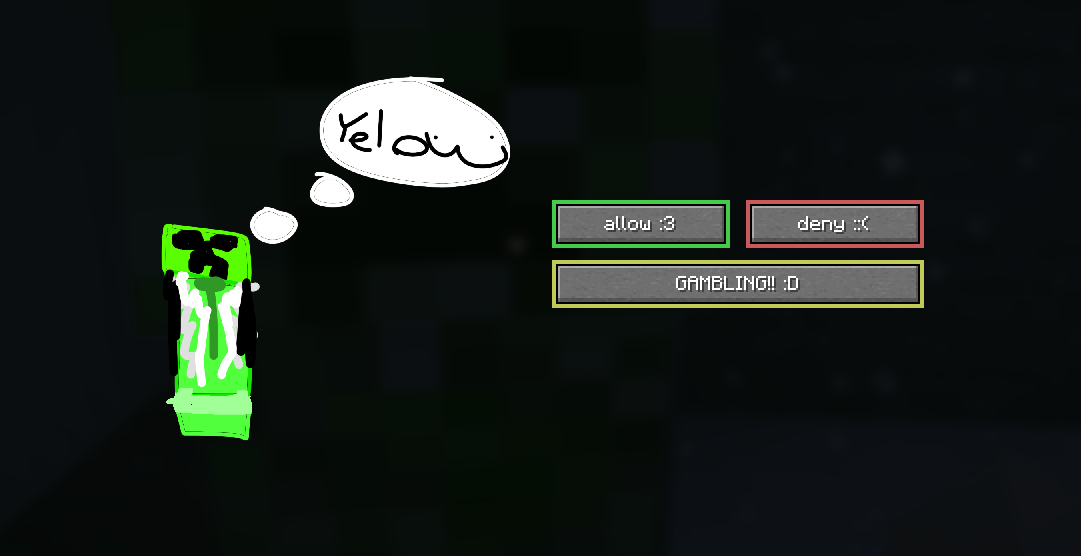
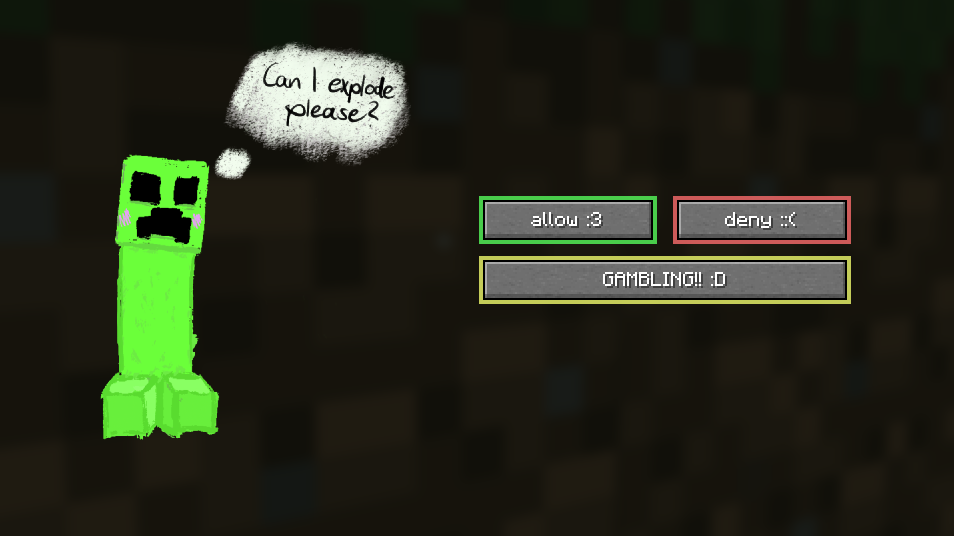
Update README, added +1 image

diff --git a/src/client/kotlin/wuritz/bcc/client/screens/ConsentScreen.kt b/src/client/kotlin/wuritz/bcc/client/screens/ConsentScreen.kt
@@ -9,13 +9,13 @@ import net.minecraft.client.gui.components.ImageWidget
 import net.minecraft.client.gui.components.Tooltip
 import net.minecraft.client.gui.screens.Screen
 import net.minecraft.network.chat.Component
-import wuritz.bcc.BetterCreeperConsent
+import wuritz.bcc.client.utils.ImageParser
 import wuritz.bcc.network.payloads.ResponsePayload
 import java.awt.Color
 
 class ConsentScreen(val creeperId: Int) : Screen(Component.literal("Consent")) {
 
-    val yelopic = BetterCreeperConsent.id("yelo.png")
+    val creeperImage = ImageParser.getRandomCreeperImage()
 
     // box
     val BOX_WIDTH = 230
@@ -36,7 +36,7 @@ class ConsentScreen(val creeperId: Int) : Screen(Component.literal("Consent")) {
         val denyButtonX = getDenyButtonX()
         val gamblingButtonX = getGamblingButtonX()
 
-        addRenderableWidget(ImageWidget.texture(200, 200, yelopic, 200, 200))
+        addRenderableWidget(ImageWidget.texture(200, 200, creeperImage, 200, 200))
             .setPosition(getPictureX(), getPictureY())
 
         /**
@@ -101,7 +101,7 @@ class ConsentScreen(val creeperId: Int) : Screen(Component.literal("Consent")) {
         super.extractRenderState(graphics, mouseX, mouseY, a)
     }
 
-    /**y
+    /**
      * Click handlers
      */
     fun pressedAllow() {
@@ -119,7 +119,7 @@ class ConsentScreen(val creeperId: Int) : Screen(Component.literal("Consent")) {
     fun pressedGambling() {
         allowedToClose = true
         onClose()
-        Minecraft.getInstance().setScreenAndShow(GamblingScreen(creeperId))
+        Minecraft.getInstance().setScreenAndShow(GamblingScreen(creeperId, creeperImage))
     }
 
     override fun onClose() {

diff --git a/src/client/kotlin/wuritz/bcc/client/screens/GamblingScreen.kt b/src/client/kotlin/wuritz/bcc/client/screens/GamblingScreen.kt
@@ -6,6 +6,7 @@ import net.minecraft.client.gui.GuiGraphicsExtractor
 import net.minecraft.client.gui.components.ImageWidget
 import net.minecraft.client.gui.screens.Screen
 import net.minecraft.network.chat.Component
+import net.minecraft.resources.Identifier
 import net.minecraft.sounds.SoundEvent
 import net.minecraft.sounds.SoundEvents
 import wuritz.bcc.BetterCreeperConsent
@@ -17,9 +18,8 @@ import java.awt.Color
 import java.util.concurrent.TimeUnit
 import kotlin.random.Random
 
-class GamblingScreen(val creeperId: Int) : Screen(Component.literal("Consent Gambling")) {
+class GamblingScreen(val creeperId: Int, val creeperImage: Identifier) : Screen(Component.literal("Consent Gambling")) {
 
-    val yelopic = BetterCreeperConsent.id("yelo.png")
     var state = State.ALLOW
 
     val secTimer = CacheTimer()
@@ -54,7 +54,7 @@ class GamblingScreen(val creeperId: Int) : Screen(Component.literal("Consent Gam
         endTimer.reset()
         sliderTimer.reset()
 
-        addRenderableWidget(ImageWidget.texture(200, 200, yelopic, 200, 200)
+        addRenderableWidget(ImageWidget.texture(200, 200, creeperImage, 200, 200)
         ).setPosition(getPictureX(), getPictureY())
 
         if (Random.nextInt() % 2 == 0) trigger = true

diff --git a/src/client/kotlin/wuritz/bcc/client/utils/ImageParser.kt b/src/client/kotlin/wuritz/bcc/client/utils/ImageParser.kt
@@ -1,0 +1,17 @@
+package wuritz.bcc.client.utils
+
+import net.minecraft.resources.Identifier
+import wuritz.bcc.BetterCreeperConsent
+
+object ImageParser {
+
+    val images = listOf(
+        BetterCreeperConsent.id("creepers/crp1.png"),
+        BetterCreeperConsent.id("creepers/crp2.png"),
+    )
+
+    fun getRandomCreeperImage() : Identifier {
+        return images.random()
+    }
+
+}

diff --git a/src/client/kotlin/wuritz/bcc/client/BetterCreeperConsentClient.kt b/src/client/kotlin/wuritz/bcc/client/BetterCreeperConsentClient.kt
@@ -6,7 +6,6 @@ import wuritz.bcc.BetterCreeperConsent
 import wuritz.bcc.client.screens.ConsentScreen
 import wuritz.bcc.network.payloads.OpenConsentPayload
 import wuritz.bcc.network.payloads.ResponsePayload
-import wuritz.bcc.utils.MessageSender
 
 object BetterCreeperConsentClient : ClientModInitializer {
 	override fun onInitializeClient() {
